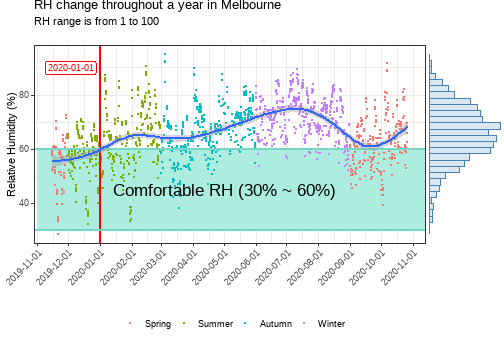
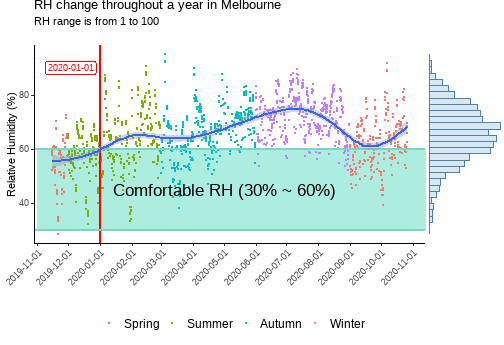
Change some sentences and legend text size

Changed region(s): [[0.2381, 0.9275, 0.4762, 0.9565], [0.625, 0.9275, 0.744, 0.9565], [0.506, 0.9275, 0.5952, 0.9565]]

diff --git a/5523-GroupPresentation.html b/5523-GroupPresentation.html
@@ -5,9 +5,7 @@
     <meta charset="utf-8" />
     <meta name="author" content="Yuheng Cui" />
     <meta name="author" content="Yiwen Jiang" />
-    <meta name="date" content="2020-11-03" />
-    <link href="libs/anchor-sections/anchor-sections.css" rel="stylesheet" />
-    <script src="libs/anchor-sections/anchor-sections.js"></script>
+    <meta name="date" content="2020-11-04" />
     <link href="libs/panelset/panelset.css" rel="stylesheet" />
     <script src="libs/panelset/panelset.js"></script>
     <script src="libs/kePrint/kePrint.js"></script>
@@ -52,7 +50,7 @@ background-position: 88% 60%
 &lt;center&gt;
 &lt;br&gt;
 &lt;font size="6", style="font-family:cursive"&gt; Group: eta &lt;/font&gt;  
-&lt;font size="5", style="font-family:cursive"&gt; 2020-11-03 &lt;/font&gt;
+&lt;font size="5", style="font-family:cursive"&gt; 2020-11-04 &lt;/font&gt;
 &lt;br&gt;
 &lt;br&gt;
 &lt;font size="5", style="font-family:monaco"&gt; Yuheng Cui (ycui0008) &lt;/font&gt;
@@ -216,8 +214,8 @@ source from [Microclimate Sensor Readings](https://data.melbourne.vic.gov.au/Env
 
 .panel[.panel-name[Sensors' locations]
 
-<div id="htmlwidget-64304b5919904499587d" style="width:100%;height:504px;" class="leaflet html-widget"></div>
-<script type="application/json" data-for="htmlwidget-64304b5919904499587d">{"x":{"options":{"crs":{"crsClass":"L.CRS.EPSG3857","code":null,"proj4def":null,"projectedBounds":null,"options":{}}},"calls":[{"method":"addTiles","args":["//{s}.tile.openstreetmap.org/{z}/{x}/{y}.png",null,null,{"minZoom":0,"maxZoom":18,"tileSize":256,"subdomains":"abc","errorTileUrl":"","tms":false,"noWrap":false,"zoomOffset":0,"zoomReverse":false,"opacity":1,"zIndex":1,"detectRetina":false,"attribution":"&copy; <a href=\"http://openstreetmap.org\">OpenStreetMap<\/a> contributors, <a href=\"http://creativecommons.org/licenses/by-sa/2.0/\">CC-BY-SA<\/a>"}]},{"method":"addMarkers","args":[[-37.800524,-37.800575,-37.800629,-37.8023,-37.800793],[144.964122,144.964635,144.965052,144.960923,144.966492],null,null,null,{"interactive":true,"draggable":false,"keyboard":true,"title":"","alt":"","zIndexOffset":0,"opacity":1,"riseOnHover":false,"riseOffset":250},["Corner of Swanston and Grattan Streets, Carlton","141 Grattan Street, Carlton","3/121 Grattan Street, Carlton","Corner of Pelham and Leicester Streets, Carlton","Between 87 and 89 Grattan Street, Carlton"],null,null,null,["arc1046","arc1048","arc1050","arc1047","arc1045"],{"interactive":false,"permanent":true,"direction":"bottom","opacity":1,"offset":[0,0],"textsize":"10px","textOnly":false,"style":{"color":"black","font-family":"serif","font-style":"italic","box-shadow":"3px 3px rgba(0,0,0,0.25)","font-size":"12px","border-color":"rgba(0,0,0,0.5)"},"className":"","sticky":true},null]}],"limits":{"lat":[-37.8023,-37.800524],"lng":[144.960923,144.966492]}},"evals":[],"jsHooks":[]}</script>
+<div id="htmlwidget-edad449e041b1af5e9bb" style="width:100%;height:504px;" class="leaflet html-widget"></div>
+<script type="application/json" data-for="htmlwidget-edad449e041b1af5e9bb">{"x":{"options":{"crs":{"crsClass":"L.CRS.EPSG3857","code":null,"proj4def":null,"projectedBounds":null,"options":{}}},"calls":[{"method":"addTiles","args":["//{s}.tile.openstreetmap.org/{z}/{x}/{y}.png",null,null,{"minZoom":0,"maxZoom":18,"tileSize":256,"subdomains":"abc","errorTileUrl":"","tms":false,"noWrap":false,"zoomOffset":0,"zoomReverse":false,"opacity":1,"zIndex":1,"detectRetina":false,"attribution":"&copy; <a href=\"http://openstreetmap.org\">OpenStreetMap<\/a> contributors, <a href=\"http://creativecommons.org/licenses/by-sa/2.0/\">CC-BY-SA<\/a>"}]},{"method":"addMarkers","args":[[-37.800524,-37.800575,-37.800629,-37.8023,-37.800793],[144.964122,144.964635,144.965052,144.960923,144.966492],null,null,null,{"interactive":true,"draggable":false,"keyboard":true,"title":"","alt":"","zIndexOffset":0,"opacity":1,"riseOnHover":false,"riseOffset":250},["Corner of Swanston and Grattan Streets, Carlton","141 Grattan Street, Carlton","3/121 Grattan Street, Carlton","Corner of Pelham and Leicester Streets, Carlton","Between 87 and 89 Grattan Street, Carlton"],null,null,null,["arc1046","arc1048","arc1050","arc1047","arc1045"],{"interactive":false,"permanent":true,"direction":"bottom","opacity":1,"offset":[0,0],"textsize":"10px","textOnly":false,"style":{"color":"black","font-family":"serif","font-style":"italic","box-shadow":"3px 3px rgba(0,0,0,0.25)","font-size":"12px","border-color":"rgba(0,0,0,0.5)"},"className":"","sticky":true},null]}],"limits":{"lat":[-37.8023,-37.800524],"lng":[144.960923,144.966492]}},"evals":[],"jsHooks":[]}</script>
 
 ]
 ]
@@ -279,18 +277,15 @@ source from [Microclimate Sensor Readings](https://data.melbourne.vic.gov.au/Env
 ---
 ### Four seasons in Melbourne (most comfort and most uncomfort seasons)
 
-.panelset[
-<div id="htmlwidget-fb8a82d2d552f808c4bc" style="width:100%;height:200px;" class="widgetframe html-widget"></div>
-<script type="application/json" data-for="htmlwidget-fb8a82d2d552f808c4bc">{"x":{"url":"5523-GroupPresentation_files/figure-html//widgets/widget_comfort_season.html","options":{"xdomain":"*","allowfullscreen":false,"lazyload":false}},"evals":[],"jsHooks":[]}</script>
 
-
-
-Temperature and RH are negatively related.
+<div id="htmlwidget-74e45d3b984e3f5cf6c5" style="width:100%;height:200px;" class="widgetframe html-widget"></div>
+<script type="application/json" data-for="htmlwidget-74e45d3b984e3f5cf6c5">{"x":{"url":"5523-GroupPresentation_files/figure-html//widgets/widget_comfort_season.html","options":{"xdomain":"*","allowfullscreen":false,"lazyload":false}},"evals":[],"jsHooks":[]}</script>
 
 **Summer** is the most *comfortable season* 
-**Winter** is the most *uncomfortable season*.
 
-]
+**Winter** is the most *uncomfortable season*
+
+
 
 
 
@@ -300,19 +295,14 @@ Temperature and RH are negatively related.
 ### Comfortable or not by each site
 
 .panelset[
-<div id="htmlwidget-64304b5919904499587d" style="width:100%;height:504px;" class="leaflet html-widget"></div>
-<script type="application/json" data-for="htmlwidget-64304b5919904499587d">{"x":{"options":{"crs":{"crsClass":"L.CRS.EPSG3857","code":null,"proj4def":null,"projectedBounds":null,"options":{}}},"calls":[{"method":"addTiles","args":["//{s}.tile.openstreetmap.org/{z}/{x}/{y}.png",null,null,{"minZoom":0,"maxZoom":18,"tileSize":256,"subdomains":"abc","errorTileUrl":"","tms":false,"noWrap":false,"zoomOffset":0,"zoomReverse":false,"opacity":1,"zIndex":1,"detectRetina":false,"attribution":"&copy; <a href=\"http://openstreetmap.org\">OpenStreetMap<\/a> contributors, <a href=\"http://creativecommons.org/licenses/by-sa/2.0/\">CC-BY-SA<\/a>"}]},{"method":"addMarkers","args":[[-37.800793,-37.800524,-37.8023,-37.800575,-37.800629],[144.966492,144.964122,144.960923,144.964635,144.965052],null,null,null,{"interactive":true,"draggable":false,"keyboard":true,"title":"","alt":"","zIndexOffset":0,"opacity":1,"riseOnHover":false,"riseOffset":250},["Site id: arc1045 <br> Location Between 87 and 89 Grattan Street, Carlton <br> Uncomfortable records: 163 <br> Comfortable records: 172","Site id: arc1046 <br> Location Corner of Swanston and Grattan Streets, Carlton <br> Uncomfortable records: 239 <br> Comfortable records: 64","Site id: arc1047 <br> Location Corner of Pelham and Leicester Streets, Carlton <br> Uncomfortable records: 280 <br> Comfortable records: 68","Site id: arc1048 <br> Location 141 Grattan Street, Carlton <br> Uncomfortable records: 206 <br> Comfortable records: 55","Site id: arc1050 <br> Location 3/121 Grattan Street, Carlton <br> Uncomfortable records: 268 <br> Comfortable records: 80"],null,null,null,null,{"interactive":false,"permanent":false,"direction":"auto","opacity":1,"offset":[0,0],"textsize":"10px","textOnly":false,"className":"","sticky":true},null]}],"limits":{"lat":[-37.8023,-37.800524],"lng":[144.960923,144.966492]}},"evals":[],"jsHooks":[]}</script>
-
-
+<div id="htmlwidget-34a109b4705bbac7b76d" style="width:100%;height:504px;" class="leaflet html-widget"></div>
+<script type="application/json" data-for="htmlwidget-34a109b4705bbac7b76d">{"x":{"options":{"crs":{"crsClass":"L.CRS.EPSG3857","code":null,"proj4def":null,"projectedBounds":null,"options":{}}},"calls":[{"method":"addTiles","args":["//{s}.tile.openstreetmap.org/{z}/{x}/{y}.png",null,null,{"minZoom":0,"maxZoom":18,"tileSize":256,"subdomains":"abc","errorTileUrl":"","tms":false,"noWrap":false,"zoomOffset":0,"zoomReverse":false,"opacity":1,"zIndex":1,"detectRetina":false,"attribution":"&copy; <a href=\"http://openstreetmap.org\">OpenStreetMap<\/a> contributors, <a href=\"http://creativecommons.org/licenses/by-sa/2.0/\">CC-BY-SA<\/a>"}]},{"method":"addMarkers","args":[[-37.800793,-37.800524,-37.8023,-37.800575,-37.800629],[144.966492,144.964122,144.960923,144.964635,144.965052],null,null,null,{"interactive":true,"draggable":false,"keyboard":true,"title":"","alt":"","zIndexOffset":0,"opacity":1,"riseOnHover":false,"riseOffset":250},["Site id: arc1045 <br> Location: Between 87 and 89 Grattan Street, Carlton <br> Uncomfortable records: 163 <br> Comfortable records: 172","Site id: arc1046 <br> Location: Corner of Swanston and Grattan Streets, Carlton <br> Uncomfortable records: 239 <br> Comfortable records: 64","Site id: arc1047 <br> Location: Corner of Pelham and Leicester Streets, Carlton <br> Uncomfortable records: 280 <br> Comfortable records: 68","Site id: arc1048 <br> Location: 141 Grattan Street, Carlton <br> Uncomfortable records: 206 <br> Comfortable records: 55","Site id: arc1050 <br> Location: 3/121 Grattan Street, Carlton <br> Uncomfortable records: 268 <br> Comfortable records: 80"],null,null,null,null,{"interactive":false,"permanent":false,"direction":"auto","opacity":1,"offset":[0,0],"textsize":"10px","textOnly":false,"className":"","sticky":true},null]}],"limits":{"lat":[-37.8023,-37.800524],"lng":[144.960923,144.966492]}},"evals":[],"jsHooks":[]}</script>
 ]
 
-
 ---
-
 ### How does Relative Humidity affect our daily life?
 
 .pull-left[
-
 ![](https://www.beeculture.com/wp-content/uploads/2019/07/BUZZ-1.jpg)&lt;!-- --&gt;
 
 ]
@@ -327,8 +317,6 @@ Temperature and RH are negatively related.
 - Live in high-RH environment would cause short- and long-term healthy problem.
 
 ]
-
-
 
 ---
 class: middle
@@ -347,7 +335,7 @@ class: center, middle
 These slides were created by using [**xaringan**](https://github.com/yihui/xaringan).
 
 ---
-
+class: center, middle
 # Any questions?
 
 

diff --git a/5523-GroupPresentation_files/figure-html/widgets/widget_comfort_season.html b/5523-GroupPresentation_files/figure-html/widgets/widget_comfort_season.html
@@ -17,12 +17,12 @@
 </head>
 <body>
 <div id="htmlwidget_container">
-  <div id="htmlwidget-c68fcc2f31860e014000" style="width:100%;height:200px;" class="datatables html-widget"></div>
+  <div id="htmlwidget-30a7c95981ad307e0592" style="width:100%;height:200px;" class="datatables html-widget"></div>
   <script>HTMLWidgets.pymChild = new pym.Child();HTMLWidgets.addPostRenderHandler(function(){
                                 setTimeout(function(){HTMLWidgets.pymChild.sendHeight();},100);
                             });</script>
 </div>
-<script type="application/json" data-for="htmlwidget-c68fcc2f31860e014000">{"x":{"filter":"none","data":[["Spring","Summer","Autumn","Winter"],[170,253,321,412],[138,181,96,24]],"container":"<table class=\"display\">\n  <thead>\n    <tr>\n      <th>Season<\/th>\n      <th>Uncomfortable<\/th>\n      <th>Comfortable<\/th>\n    <\/tr>\n  <\/thead>\n<\/table>","options":{"dom":"t","columnDefs":[{"className":"dt-right","targets":[1,2]}],"order":[],"autoWidth":false,"orderClasses":false,"rowCallback":"function(row, data) {\nvar value=data[1]; $(this.api().cell(row, 1).node()).css({'background':value == 412 ? \"lightblue\" : null});\nvar value=data[2]; $(this.api().cell(row, 2).node()).css({'background':value == 181 ? \"#58D68D\" : null});\n}"}},"evals":["options.rowCallback"],"jsHooks":[]}</script>
-<script type="application/htmlwidget-sizing" data-for="htmlwidget-c68fcc2f31860e014000">{"viewer":{"width":"100%","height":200,"padding":0,"fill":false},"browser":{"width":"100%","height":200,"padding":0,"fill":false}}</script>
+<script type="application/json" data-for="htmlwidget-30a7c95981ad307e0592">{"x":{"filter":"none","data":[["Spring","Summer","Autumn","Winter"],[170,253,321,412],[138,181,96,24]],"container":"<table class=\"display\">\n  <thead>\n    <tr>\n      <th>Season<\/th>\n      <th>Uncomfortable<\/th>\n      <th>Comfortable<\/th>\n    <\/tr>\n  <\/thead>\n<\/table>","options":{"dom":"t","columnDefs":[{"className":"dt-right","targets":[1,2]}],"order":[],"autoWidth":false,"orderClasses":false,"rowCallback":"function(row, data) {\nvar value=data[1]; $(this.api().cell(row, 1).node()).css({'background':value == 412 ? \"lightblue\" : null});\nvar value=data[2]; $(this.api().cell(row, 2).node()).css({'background':value == 181 ? \"#58D68D\" : null});\n}"}},"evals":["options.rowCallback"],"jsHooks":[]}</script>
+<script type="application/htmlwidget-sizing" data-for="htmlwidget-30a7c95981ad307e0592">{"viewer":{"width":"100%","height":200,"padding":0,"fill":false},"browser":{"width":"100%","height":200,"padding":0,"fill":false}}</script>
 </body>
 </html>
